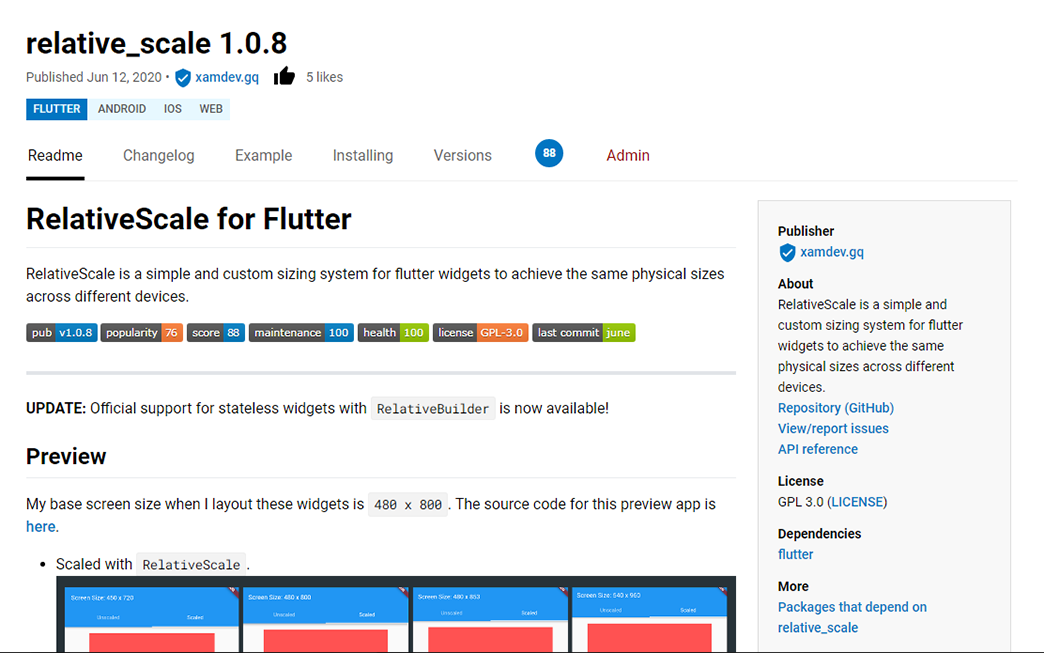
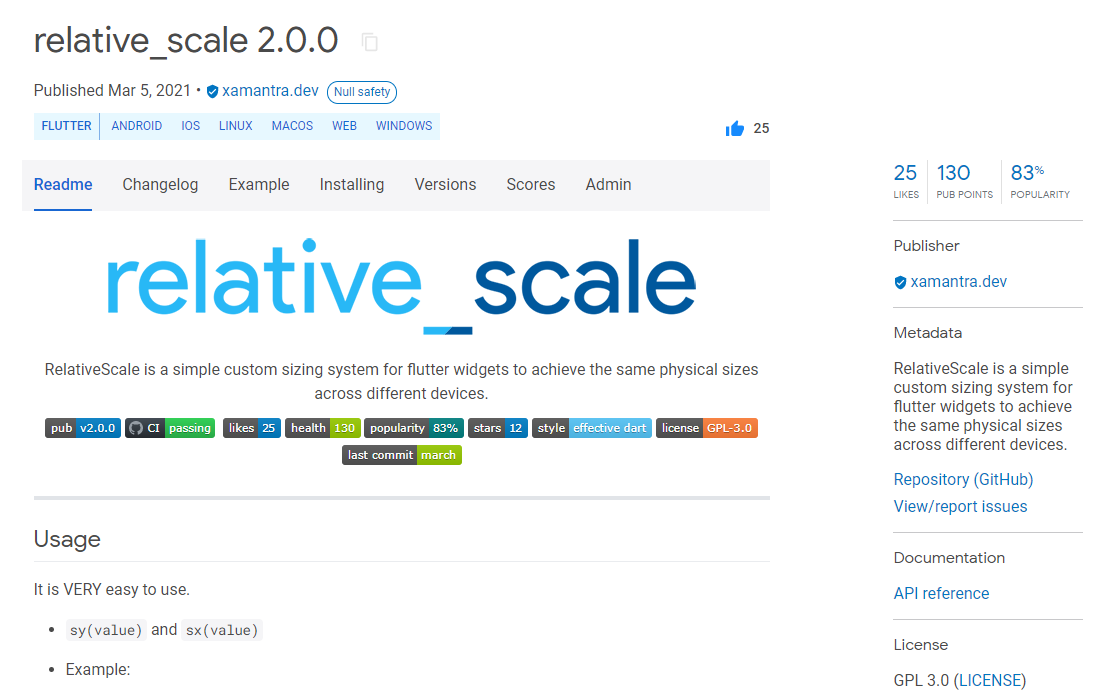
updated featured projects

diff --git a/content/featured/Momentum/index.md b/content/featured/Momentum/index.md
@@ -11,4 +11,4 @@ tech:
 showInProjects: true
 ---
 
-A super-powerful flutter state management library inspired with MVC pattern with very flexible dependency injection. It has so many features that doesn't come with other state management libraries. All of them out of the box.
+MVC pattern for flutter. Works as state management, dependency injection and service locator. It has so many features that doesn't come with other state management libraries. [Official website](https://www.xamantra.dev/momentum/#/).

diff --git a/content/featured/Elapsed/index.md b/content/featured/Elapsed/index.md
@@ -1,0 +1,13 @@
+---
+date: '1'
+title: 'elapsed'
+cover: './elapsed.png'
+github: 'https://github.com/xamantra/elapsed'
+external: 'https://pub.dev/packages/elapsed'
+tech:
+  - Dart
+  - Flutter
+showInProjects: true
+---
+
+Get time elapsed for asynchronous function in a single line of code. This package is written as a simplified form of the `Stopwatch` class. And probably better.

diff --git a/content/featured/RelativeScale/index.md b/content/featured/RelativeScale/index.md
@@ -12,4 +12,4 @@ tech:
 showInProjects: true
 ---
 
-RelativeScale is a simple and custom sizing system for flutter widgets to achieve the same physical sizes across different devices. Supports both _StatelessWidget_ and _StatefulWidget_ with very easy API.
+RelativeScale is a simple custom sizing system for flutter widgets to achieve the same physical sizes across different devices.
